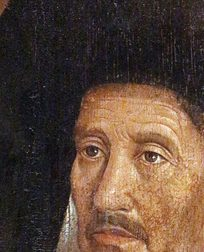
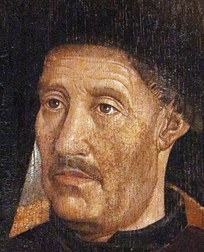
SUPER歴史ノベル 大航海時代編: 報告4件の修正（エンリケの顔、ラゴスの矢印、地図の映り、会話窓の用語） (#212)
- エンリケの肖像を原画から切り直し（頭と顔が切れていた）
- 帰りの「金・奴隷」の矢印を沖回りにして行きの矢印と重ならないように
- 行ごとの話題の地点がはみ出すと中心と縮尺を自動で直す。会話窓の裏に隠れないようにも合わせる
- 1453年の場面を引きにしてコンスタンティノープルを画面内に
- 地図上の会話窓の用語を押せるように（窓を押すと次へ）

Claude-Session: https://claude.ai/code/session_01HyMbFk6EeEKPm1zQRToVpT

diff --git a/apps/history-novel/daikokai.html b/apps/history-novel/daikokai.html
@@ -20,7 +20,7 @@ window.hnFont=function(k){if(!HN_FONTS[k])k="dot";var d=document.documentElement
  if(f.u&&!document.getElementById("ff-"+k)){var st=document.createElement("style");st.id="ff-"+k;st.textContent="@font-face{font-family:'"+f.fam+"';src:url("+f.u+") format('woff2');font-display:swap}";document.head.appendChild(st);}
  return k;};
 (function(){var k;try{k=localStorage.getItem("hn-font");}catch(e){}hnFont(k);})();</script>
-<link rel="stylesheet" href="hn.css?v=5ed1009a">
+<link rel="stylesheet" href="hn.css?v=19ee0414">
 
 <div class="app">
   <header>
@@ -269,8 +269,8 @@ const S0=[
 {sp:"eanes",t:"「王子様…\n岬の先にも、海はふつうに続いておりました」"},
 {t:"新しい船も役に立った。{カラベル船}だ。三角の帆で、向かい風でもジグザグに進める。{羅針盤}と星の観測で、陸の見えない海でも自分の位置がわかるようになっていく。"},
 {t:"ポルトガルの船は西アフリカの海岸を少しずつ南へ下り、金と、そして人を運びはじめた。1444年、ポルトガル南部の港{ラゴス}で、アフリカから連れてこられた人々が売りに出された。{奴隷貿易}のはじまりである。",
- m:{c:[-10,22],r:1300,pins:["ヴェルデ岬","エルミナ","ラゴス"],blink:"ヴェルデ岬",fl:"pt",ar:[{p:["ボジャドール岬",[-18,20],"ヴェルデ岬",[-14,8],[-6,4],"エルミナ"],s:"s",l:"南へ"},{p:["エルミナ",[-12,8],[-21,22],"ラゴス"],s:"o",l:"金・奴隷"}]}},
-{scene:{y:1453,bgm:"siege_far",era:"大航海時代",e:"東の道",m:{c:[25,38],r:700,pins:["コンスタンティノープル","ヴェネツィア"],blink:"コンスタンティノープル",fl:"k"}}},
+ m:{c:[-10,22],r:1300,pins:["ヴェルデ岬","エルミナ","ラゴス"],blink:"ヴェルデ岬",fl:"pt",ar:[{p:["ボジャドール岬",[-18,20],"ヴェルデ岬",[-14,8],[-6,4],"エルミナ"],s:"s",l:"南へ"},{p:["エルミナ",[-6,1.5],[-20,4],[-28,18],[-20,32],"ラゴス"],s:"o",l:"金・奴隷"}]}},
+{scene:{y:1453,bgm:"siege_far",era:"大航海時代",e:"東の道",m:{c:[21,40],r:1000,pins:["コンスタンティノープル","ヴェネツィア"],blink:"コンスタンティノープル",fl:"k"}}},
 {t:"1453年、東の大都市{コンスタンティノープル}が{オスマン帝国}に攻め落とされた。千年続いた東ローマ帝国（{ビザンツ帝国}）の終わりだ。"},
 {t:"地中海の東は、イスラームの大国の海になった。東方の品を、地中海を通って手に入れる道は、ますますイスラーム商人とヴェネツィアのものになる。",n:"オスマン帝国が東西の貿易を止めたわけではない。ただ、間に入る商人と国が多いほど、品物は高くなった。"},
 {t:"アフリカ回りの道を探す理由は、いっそう強くなった。",m:{c:[-5,10],r:2900,blink:"リスボン",fl:"pt"}},
@@ -424,4 +424,4 @@ const S=S0;
 const PIC={"ch_henrique": {"cap": "henrique", "cr": "Nuno Gonçalves／パブリックドメイン／Wikimedia Commons「Henry the Navigator1.jpg」"}, "ch_columbus": {"cap": "columbus", "cr": "Sebastiano del Piombo／パブリックドメイン／Wikimedia Commons「Portrait of a Man, Said to be Christopher Columbus.jpg」"}, "ch_dagama": {"cap": "dagama", "cr": "作者不詳／パブリックドメイン／Wikimedia Commons「Vasco da Gama (Livro de Lisuarte de Abreu).jpg」"}, "ch_magellan": {"cap": "magellan", "cr": "作者不詳／パブリックドメイン／Wikimedia Commons「Ferdinand Magellan.jpg」"}, "ch_isabel": {"cap": "isabel", "cr": "作者不詳／パブリックドメイン／Wikimedia Commons「IsabellaofCastile03.jpg」"}, "ch_joao2": {"cap": "joao2", "cr": "作者不詳／パブリックドメイン／Wikimedia Commons「IOANNES QVARTVS PORTVGALIAE REX (Kunsthistorisches Museum).png」"}, "ch_cortes": {"cap": "cortes", "cr": "作者不詳／パブリックドメイン／Wikimedia Commons「Retrato de Hernán Cortés.jpg」"}, "ch_moctezuma": {"cap": "moctezuma", "cr": "作者不詳／パブリックドメイン／Wikimedia Commons「Moctezuma Mendoza.jpg」"}, "ch_pizarro": {"cap": "pizarro", "cr": "Amable-Paul Coutan／パブリックドメイン／Wikimedia Commons「Portrait of Francisco Pizarro.jpg」"}, "ch_atahualpa": {"cap": "atahualpa", "cr": "作者不詳／パブリックドメイン／Wikimedia Commons「Atahuallpa, Inca XIIII From Berlin Ethnologisches Museum, Staatliche Museen, Berlin, Germany.png」"}, "ch_lascasas": {"cap": "lascasas", "cr": "作者不詳 / Unidentified painter／パブリックドメイン／Wikimedia Commons「Fray Bartolomé de las Casas.jpg」"}, "ch_xavier": {"cap": "xavier", "cr": "作者不詳／パブリックドメイン／Wikimedia Commons「Franciscus de Xabier.jpg」"}, "ch_elcano": {"cap": "elcano", "cr": "作者不詳／パブリックドメイン／Wikimedia Commons「Juan Sebastián Elcano, anonymous 19th century painting.jpg」"}, "ch_pigafetta": {"cap": "pigafetta", "cr": "作者不詳／パブリックドメイン／Wikimedia Commons「Antonio pigafetta.png」"}, "d_giraffe": {"cap": "沈度「瑞応麒麟図」", "d": "1414年、ベンガルの使節が明の永楽帝に献上したキリンを描いた絵。キリンはもとはアフリカ東岸から運ばれた。中国では伝説の聖獣「麒麟」とみなされた", "cr": "Shen Du (沈度, 1357–1434)／パブリックドメイン／Wikimedia Commons「Tribute Giraffe with Attendant.jpg」"}, "p_belem": {"cap": "ベレンの塔（リスボン）", "d": "16世紀はじめ、テージョ川の入り口を守るために建てられた塔。インドへ向かう船はこの前を通って出ていった", "cr": "Alvesgaspar／CC BY-SA 3.0／Wikimedia Commons「Torre Belém April 2009-4a.jpg」"}, "d_caravel": {"cap": "ピンタ号の複製船", "d": "コロンブスの第1回航海に加わったカラベル船。三角帆と四角い帆を組み合わせている（スペイン・パロスの復元船）", "cr": "Miguel Ángel \"fotógrafo\"／CC BY-SA 2.5／Wikimedia Commons「LaPinta.jpg」"}, "p_cape": {"cap": "喜望峰の近く（ケープ半島）", "d": "アフリカ大陸の南西の端。ディアスはこのあたりで嵐にあい、気づかないうちにアフリカの南端を回っていた", "cr": "Diego Delso／CC BY-SA 4.0／Wikimedia Commons「Playa Dias, Cape Point, Sudáfrica, 2018-07-23, DD 103.jpg」"}, "d_landing": {"cap": "ジョン・ヴァンダーリン「コロンブスの上陸」", "d": "1847年に描かれた想像の絵。アメリカ合衆国議会議事堂に飾られている", "cr": "John Vanderlyn／パブリックドメイン／Wikimedia Commons「Landing of Columbus (2) (cropped).jpg」"}, "d_calicut": {"cap": "ブラウンとホーヘンベルフ「カリカット」", "d": "1572年に出版された都市図集の一枚。港には多くの船が並んでいる", "cr": "BRAUN AND HOGENBERG／パブリックドメイン／Wikimedia Commons「Calicut 1572.jpg」"}, "d_cantino": {"cap": "カンティーノ図（1502年）", "d": "ポルトガルの最新の航海の成果を描いた世界地図。大西洋を南北に走る線がトルデシリャス条約の境界線。左側にブラジルの海岸も見える", "cr": "作者不詳 Portuguese (1502)／パブリックドメイン／Wikimedia Commons「Cantino planisphere (1502).jpg」"}, "p_strait": {"cap": "マゼラン海峡（人工衛星写真）", "d": "南アメリカ大陸の南の端。入り組んだ水路が大西洋と太平洋を結んでいる", "cr": "Jacques Descloitres, MODIS Rapid Response Team, NASA/GSFC／パブリックドメイン／Wikimedia Commons「StraitOfMagellan.jpg」"}, "d_tenochtitlan": {"cap": "テノチティトランの復元図", "d": "湖の島の上に広がる都を、研究をもとにコンピューターで描いた現代の想像図", "cr": "thomas kole／CC BY 4.0／Wikimedia Commons「Vista completa de Tenochtitlán.jpg」"}, "p_cusco": {"cap": "クスコのアルマス広場", "d": "インカの都の中心だった広場。インカの建物を壊し、その石の上にスペイン人が大聖堂を建てた", "cr": "Sucram Yef／CC BY 2.0／Wikimedia Commons「Cusco Plaza de Armas.jpg」"}, "p_cajamarca": {"cap": "身代金の部屋（カハマルカ）", "d": "アタワルパが、手の届く高さまで黄金で満たすと約束したと伝わる部屋", "cr": "Velvet／CC BY-SA 4.0／Wikimedia Commons「Cajamarca cuarto del rescate.jpg」"}, "d_potosi": {"cap": "ポトシの町とセロ・リコ", "d": "奥の赤い山が、銀を掘りつくすほど掘られた「豊かな山」", "cr": "Parallelepiped09／CC BY-SA 4.0／Wikimedia Commons「Vista de la Villa Imperial de Potosí.jpg」"}, "p_potosi": {"cap": "セロ・リコ（ボリビア・ポトシ）", "d": "標高約4800メートル。16世紀から掘られ続け、山の中は坑道だらけになっている", "cr": "Mhwater at Dutch Wikipedia／パブリックドメイン／Wikimedia Commons「Cerro ricco.jpg」"}, "p_malacca": {"cap": "ア・ファモサ（マラッカ）", "d": "1511年にマラッカを攻め取ったポルトガルが築いた要塞の門。いまはこの門だけが残る", "cr": "Chongkian／CC BY-SA 4.0／Wikimedia Commons「A Famosa Fortress.JPG」"}, "d_victoria": {"cap": "ビクトリア号の複製船", "d": "世界一周を果たしたビクトリア号を、当時の記録をもとに復元した船", "cr": "Gnsin／CC BY-SA 3.0／Wikimedia Commons「Nao Victoria.jpg」"}, "d_smallpox": {"cap": "『フィレンツェ絵文書』の天然痘", "d": "16世紀、スペイン人の修道士サアグンがアステカの人々から聞き取ってまとめた記録。天然痘に苦しむ人々が描かれている", "cr": "作者不詳／パブリックドメイン／Wikimedia Commons「FlorentineCodex BK12 F54 smallpox.jpg」"}};
 
 </script>
-<script src="hn-engine.js?v=c3912a7a"></script>
+<script src="hn-engine.js?v=ed5b30ea"></script>

diff --git a/apps/history-novel/hn-engine.js b/apps/history-novel/hn-engine.js
@@ -56,7 +56,21 @@ new ResizeObserver(resize).observe(svg);
 function setTarget(instant){
   /* r=短い辺の半分に入れる距離。rw があれば横幅の半分に rw を入れる（世界全体を見せる場面用）。
      fw=横幅の半分に最低限入れる距離（縦長のスマホで東西の端が切れないように。PCでは効かない） */
-  const c=pj(pt(mstate.c));let s=mstate.rw?W/(2*mstate.rw):Math.min(W,H)/(2*mstate.r);if(mstate.fw)s=Math.min(s,W/(2*mstate.fw));
+  let c=pj(pt(mstate.c));let s=mstate.rw?W/(2*mstate.rw):Math.min(W,H)/(2*mstate.r);if(mstate.fw)s=Math.min(s,W/(2*mstate.fw));
+  /* その行で話題の地点（新しいピン・点滅・矢印）が画面からはみ出すなら、全部入るように中心と縮尺を直す（2026-11-06 報告#11#12）。
+     余白は旗と地名ラベルのぶん。左右FX、上FT、下FB */
+  /* 会話の窓が出ているときは、窓に隠れない上の部分に、点滅中の地点（なければ話題の地点）を入れる（報告#13の場面で喜望峰が窓の裏に隠れていた） */
+  const tk=$("talk"),tb=tk&&!tk.hidden?Math.max(talkH,talkSpan())+28:0;
+  const fp=(tb&&mstate.blink?[mstate.blink]:(mstate.fit||[])).map(k=>pt(k)).filter(Boolean).map(pj);
+  if(fp.length){const FX=46,FT=46,FB=Math.max(22,tb),iw=Math.max(40,W-2*FX),ih=Math.max(40,H-FT-FB);
+    const inside=q=>{const x=(q[0]-c[0])*s+W/2,y=(q[1]-c[1])*s+H/2;return x>=FX&&x<=W-FX&&y>=FT&&y<=H-FB;};
+    if(!fp.every(inside)){const xs=fp.map(q=>q[0]),ys=fp.map(q=>q[1]);
+      const x0=Math.min(...xs),x1=Math.max(...xs),y0=Math.min(...ys),y1=Math.max(...ys);
+      s=Math.min(s,iw/Math.max(1e-6,x1-x0),ih/Math.max(1e-6,y1-y0));
+      /* 元の中心はできるだけ保ち、はみ出す分だけずらす */
+      const hw=iw/2/s,hh=ih/2/s,cy0=c[1]+(FT-FB)/2/s;
+      const cx=Math.min(Math.max(c[0],x1-hw),x0+hw),cy=Math.min(Math.max(cy0,y1-hh),y0+hh);
+      c=[cx,cy-(FT-FB)/2/s];}}
   Object.assign(from,cam);Object.assign(to,{x:c[0],y:c[1],s});t0=performance.now();
   if(instant||!camInit||matchMedia("(prefers-reduced-motion:reduce)").matches){Object.assign(cam,to);Object.assign(from,to);camInit=true;}
   kick();
@@ -166,24 +180,26 @@ function frame(now){
 function kick(){if(!rafOn){rafOn=true;requestAnimationFrame(frame);}}
 kick();
 function mergeM(ms,m){if(!m)return;if(m.clear)ms.ar=[];
+  /* fit=画面に必ず入れる地点。カメラを動かした行で入れ直し、動かさない行では足していく */
+  if(m.c||m.r)ms.fit=(!m.clear&&ms.blink)?[ms.blink]:[];/* 点滅中の地点は持ち越して入れる（clear のときは外す） */ms.fit=[...(ms.fit||[]),...(m.pins||[]),...(m.blink?[m.blink]:[]),...(m.ar||[]).flatMap(a=>a.p)];
   if(m.c)ms.c=m.c;if(m.r){ms.r=m.r;ms.rw=m.rw||null;ms.fw=m.fw||null;}if(m.pins)ms.pins=[...new Set([...ms.pins,...m.pins])];if(m.blink!==undefined){ms.blink=m.blink;ms.fl=m.fl||null;}if(m.ar)ms.ar=[...ms.ar,...m.ar];}
 function choiceM(s,j,sub,ms){const o=s.o[j];if(o.h||sub>=o.ifr.length){ms.ar=ms.ar.filter(a=>a.s!=="if");mergeM(ms,s.hm);}else{mergeM(ms,o.im);}}
 function computeMap(){
   let a=st.i;while(a>0&&!S[a].scene)a--;
   const ms=Object.assign(HOME(),{fl:null});
   for(let k=a;k<=st.i&&k<S.length;k++){const s=S[k];
-    if(s.scene){Object.assign(ms,{pins:[],ar:[],blink:null});mergeM(ms,s.scene.m);continue;}
+    if(s.scene){Object.assign(ms,{pins:[],ar:[],blink:null,fit:[]});mergeM(ms,s.scene.m);continue;}
     mergeM(ms,s.m);
     if(s.choice&&st.ans[k]!=null){choiceM(s,st.ans[k],k===st.i?st.sub:99,ms);}
   }
   return ms;
 }
 function updateMap(){
-  const ms=computeMap();const camChanged=JSON.stringify([ms.c,ms.r,ms.rw,ms.fw])!==JSON.stringify([mstate.c,mstate.r,mstate.rw,mstate.fw]);
+  const ms=computeMap();const camChanged=JSON.stringify([ms.c,ms.r,ms.rw,ms.fw,ms.fit,!$("talk").hidden])!==JSON.stringify([mstate.c,mstate.r,mstate.rw,mstate.fw,mstate.fit,mstate.tk]);ms.tk=!$("talk").hidden;
   mstate=ms;buildOverlay();if(camChanged||userCam)setTarget(false);
   userView(false);drawPics();
 }
-$("mapwrap").addEventListener("click",e=>{if(e.target.closest("#pics,#bHome"))return;if(dragMoved){dragMoved=false;return;}const pn=e.target.closest(".pin.tap");if(pn&&st.v==="play"){st.sheet="term";return openTerm(pn.dataset.place,true);}if(e.target.closest("#talk"))advance();});/* 地図そのものを押しても進めない（地点の押し間違い防止 2026-11-05） */
+$("mapwrap").addEventListener("click",e=>{if(e.target.closest("#pics,#bHome"))return;if(dragMoved){dragMoved=false;return;}const pn=e.target.closest(".pin.tap");if(pn&&st.v==="play"){st.sheet="term";return openTerm(pn.dataset.place,true);}const tm=e.target.closest("#talk .term");if(tm&&st.v==="play"){e.stopPropagation();return openTerm(tm.dataset.k,true);}if(e.target.closest("#talk"))advance();});/* 地図そのものを押しても進めない（地点の押し間違い防止 2026-11-05） */
 
 /* ---------- 地図を指で動かす（2026-11-05 経太さん）。ドラッグで移動、ピンチ／ホイールで拡大縮小。自分の画面だけ。
    次の文に進むと場面の位置に戻る。「元の位置」ボタンでもすぐ戻せる ---------- */
@@ -292,7 +308,9 @@ function lineHTML(s,cur){
 function showTalk(s){const c=C[s.sp]||{n:s.sp},el=$("talk");
   el.innerHTML=`<div class="tk-f">${faceHTML(s.sp,"face")}<div class="tk-n">${esc(c.n)}</div></div><div class="tk-b"><div class="txt">${md(s.t,true)}</div></div>`;
   el.hidden=false;el.classList.remove("on");void el.offsetWidth;el.classList.add("on");
+  talkH=talkSpan();/* 文字を打ち始める前（全文が入った状態）の高さを覚えておく。カメラ合わせに使う */
   typeIn(el.querySelector(".txt"));}
+let talkH=0;function talkSpan(){const el=$("talk");return el.hidden?0:el.offsetHeight+(parseFloat(getComputedStyle(el).bottom)||0);}
 function hideTalk(){const el=$("talk");el.hidden=true;el.innerHTML="";}
 
 function sceneCard(){const sc=sceneAt(st.i);if(!sc)return;

diff --git a/apps/history-novel/src/engine2.js b/apps/history-novel/src/engine2.js
@@ -56,7 +56,21 @@ new ResizeObserver(resize).observe(svg);
 function setTarget(instant){
   /* r=短い辺の半分に入れる距離。rw があれば横幅の半分に rw を入れる（世界全体を見せる場面用）。
      fw=横幅の半分に最低限入れる距離（縦長のスマホで東西の端が切れないように。PCでは効かない） */
-  const c=pj(pt(mstate.c));let s=mstate.rw?W/(2*mstate.rw):Math.min(W,H)/(2*mstate.r);if(mstate.fw)s=Math.min(s,W/(2*mstate.fw));
+  let c=pj(pt(mstate.c));let s=mstate.rw?W/(2*mstate.rw):Math.min(W,H)/(2*mstate.r);if(mstate.fw)s=Math.min(s,W/(2*mstate.fw));
+  /* その行で話題の地点（新しいピン・点滅・矢印）が画面からはみ出すなら、全部入るように中心と縮尺を直す（2026-11-06 報告#11#12）。
+     余白は旗と地名ラベルのぶん。左右FX、上FT、下FB */
+  /* 会話の窓が出ているときは、窓に隠れない上の部分に、点滅中の地点（なければ話題の地点）を入れる（報告#13の場面で喜望峰が窓の裏に隠れていた） */
+  const tk=$("talk"),tb=tk&&!tk.hidden?Math.max(talkH,talkSpan())+28:0;
+  const fp=(tb&&mstate.blink?[mstate.blink]:(mstate.fit||[])).map(k=>pt(k)).filter(Boolean).map(pj);
+  if(fp.length){const FX=46,FT=46,FB=Math.max(22,tb),iw=Math.max(40,W-2*FX),ih=Math.max(40,H-FT-FB);
+    const inside=q=>{const x=(q[0]-c[0])*s+W/2,y=(q[1]-c[1])*s+H/2;return x>=FX&&x<=W-FX&&y>=FT&&y<=H-FB;};
+    if(!fp.every(inside)){const xs=fp.map(q=>q[0]),ys=fp.map(q=>q[1]);
+      const x0=Math.min(...xs),x1=Math.max(...xs),y0=Math.min(...ys),y1=Math.max(...ys);
+      s=Math.min(s,iw/Math.max(1e-6,x1-x0),ih/Math.max(1e-6,y1-y0));
+      /* 元の中心はできるだけ保ち、はみ出す分だけずらす */
+      const hw=iw/2/s,hh=ih/2/s,cy0=c[1]+(FT-FB)/2/s;
+      const cx=Math.min(Math.max(c[0],x1-hw),x0+hw),cy=Math.min(Math.max(cy0,y1-hh),y0+hh);
+      c=[cx,cy-(FT-FB)/2/s];}}
   Object.assign(from,cam);Object.assign(to,{x:c[0],y:c[1],s});t0=performance.now();
   if(instant||!camInit||matchMedia("(prefers-reduced-motion:reduce)").matches){Object.assign(cam,to);Object.assign(from,to);camInit=true;}
   kick();
@@ -166,24 +180,26 @@ function frame(now){
 function kick(){if(!rafOn){rafOn=true;requestAnimationFrame(frame);}}
 kick();
 function mergeM(ms,m){if(!m)return;if(m.clear)ms.ar=[];
+  /* fit=画面に必ず入れる地点。カメラを動かした行で入れ直し、動かさない行では足していく */
+  if(m.c||m.r)ms.fit=(!m.clear&&ms.blink)?[ms.blink]:[];/* 点滅中の地点は持ち越して入れる（clear のときは外す） */ms.fit=[...(ms.fit||[]),...(m.pins||[]),...(m.blink?[m.blink]:[]),...(m.ar||[]).flatMap(a=>a.p)];
   if(m.c)ms.c=m.c;if(m.r){ms.r=m.r;ms.rw=m.rw||null;ms.fw=m.fw||null;}if(m.pins)ms.pins=[...new Set([...ms.pins,...m.pins])];if(m.blink!==undefined){ms.blink=m.blink;ms.fl=m.fl||null;}if(m.ar)ms.ar=[...ms.ar,...m.ar];}
 function choiceM(s,j,sub,ms){const o=s.o[j];if(o.h||sub>=o.ifr.length){ms.ar=ms.ar.filter(a=>a.s!=="if");mergeM(ms,s.hm);}else{mergeM(ms,o.im);}}
 function computeMap(){
   let a=st.i;while(a>0&&!S[a].scene)a--;
   const ms=Object.assign(HOME(),{fl:null});
   for(let k=a;k<=st.i&&k<S.length;k++){const s=S[k];
-    if(s.scene){Object.assign(ms,{pins:[],ar:[],blink:null});mergeM(ms,s.scene.m);continue;}
+    if(s.scene){Object.assign(ms,{pins:[],ar:[],blink:null,fit:[]});mergeM(ms,s.scene.m);continue;}
     mergeM(ms,s.m);
     if(s.choice&&st.ans[k]!=null){choiceM(s,st.ans[k],k===st.i?st.sub:99,ms);}
   }
   return ms;
 }
 function updateMap(){
-  const ms=computeMap();const camChanged=JSON.stringify([ms.c,ms.r,ms.rw,ms.fw])!==JSON.stringify([mstate.c,mstate.r,mstate.rw,mstate.fw]);
+  const ms=computeMap();const camChanged=JSON.stringify([ms.c,ms.r,ms.rw,ms.fw,ms.fit,!$("talk").hidden])!==JSON.stringify([mstate.c,mstate.r,mstate.rw,mstate.fw,mstate.fit,mstate.tk]);ms.tk=!$("talk").hidden;
   mstate=ms;buildOverlay();if(camChanged||userCam)setTarget(false);
   userView(false);drawPics();
 }
-$("mapwrap").addEventListener("click",e=>{if(e.target.closest("#pics,#bHome"))return;if(dragMoved){dragMoved=false;return;}const pn=e.target.closest(".pin.tap");if(pn&&st.v==="play"){st.sheet="term";return openTerm(pn.dataset.place,true);}if(e.target.closest("#talk"))advance();});/* 地図そのものを押しても進めない（地点の押し間違い防止 2026-11-05） */
+$("mapwrap").addEventListener("click",e=>{if(e.target.closest("#pics,#bHome"))return;if(dragMoved){dragMoved=false;return;}const pn=e.target.closest(".pin.tap");if(pn&&st.v==="play"){st.sheet="term";return openTerm(pn.dataset.place,true);}const tm=e.target.closest("#talk .term");if(tm&&st.v==="play"){e.stopPropagation();return openTerm(tm.dataset.k,true);}if(e.target.closest("#talk"))advance();});/* 地図そのものを押しても進めない（地点の押し間違い防止 2026-11-05） */
 
 /* ---------- 地図を指で動かす（2026-11-05 経太さん）。ドラッグで移動、ピンチ／ホイールで拡大縮小。自分の画面だけ。
    次の文に進むと場面の位置に戻る。「元の位置」ボタンでもすぐ戻せる ---------- */
@@ -292,7 +308,9 @@ function lineHTML(s,cur){
 function showTalk(s){const c=C[s.sp]||{n:s.sp},el=$("talk");
   el.innerHTML=`<div class="tk-f">${faceHTML(s.sp,"face")}<div class="tk-n">${esc(c.n)}</div></div><div class="tk-b"><div class="txt">${md(s.t,true)}</div></div>`;
   el.hidden=false;el.classList.remove("on");void el.offsetWidth;el.classList.add("on");
+  talkH=talkSpan();/* 文字を打ち始める前（全文が入った状態）の高さを覚えておく。カメラ合わせに使う */
   typeIn(el.querySelector(".txt"));}
+let talkH=0;function talkSpan(){const el=$("talk");return el.hidden?0:el.offsetHeight+(parseFloat(getComputedStyle(el).bottom)||0);}
 function hideTalk(){const el=$("talk");el.hidden=true;el.innerHTML="";}
 
 function sceneCard(){const sc=sceneAt(st.i);if(!sc)return;

diff --git a/apps/history-novel/index.html b/apps/history-novel/index.html
@@ -20,7 +20,7 @@ window.hnFont=function(k){if(!HN_FONTS[k])k="dot";var d=document.documentElement
  if(f.u&&!document.getElementById("ff-"+k)){var st=document.createElement("style");st.id="ff-"+k;st.textContent="@font-face{font-family:'"+f.fam+"';src:url("+f.u+") format('woff2');font-display:swap}";document.head.appendChild(st);}
  return k;};
 (function(){var k;try{k=localStorage.getItem("hn-font");}catch(e){}hnFont(k);})();</script>
-<link rel="stylesheet" href="hn.css?v=5ed1009a">
+<link rel="stylesheet" href="hn.css?v=19ee0414">
 
 <div class="app">
   <header>
@@ -310,4 +310,4 @@ const S=S0;
 const PIC={"ch_yoritomo": {"cap": "yoritomo", "cr": "Fujiwara no Takanobu／パブリックドメイン／Wikimedia Commons「Minamoto no Yoritomo.jpg」"}, "ch_kiyomori": {"cap": "kiyomori", "cr": "Fujiwara no Gōshin／パブリックドメイン／Wikimedia Commons「Taira no Kiyomori,TenshiSekkanMiei.jpg」"}, "ch_goshirakawa": {"cap": "goshirakawa", "cr": "ja:藤原為信／パブリックドメイン／Wikimedia Commons「Emperor Go-Shirakawa.jpg」"}, "ch_yoshitsune": {"cap": "yoshitsune", "cr": "作者不詳／パブリックドメイン／Wikimedia Commons「Minamoto no Yoshitsune.jpg」"}, "ch_masako": {"cap": "masako", "cr": "作者不詳／パブリックドメイン／Wikimedia Commons「Hojo Masako.jpg」"}, "ch_yasutoki": {"cap": "yasutoki", "cr": "栗原信充(Kurihara Nobumitsu)／パブリックドメイン／Wikimedia Commons「Hōjō Yasutoki.jpg」"}, "ch_gotoba": {"cap": "gotoba", "cr": "Fujiwara no Nobuzane／パブリックドメイン／Wikimedia Commons「Emperor Go-Toba.jpg」"}, "ch_hiromoto": {"cap": "hiromoto", "cr": "大庭学僊 / Ōba Gakusen, 1820 - 1899.／パブリックドメイン／Wikimedia Commons「Ōe no Hiromoto.jpg」"}, "ch_sanetomo": {"cap": "sanetomo", "cr": "Hannah／パブリックドメイン／Wikimedia Commons「Minamoto no Sanetomo.jpg」"}, "ch_mochihito": {"cap": "mochihito", "cr": "Published by 国史大図鑑編輯所(Kokushi Daizukan Henshujo)／パブリックドメイン／Wikimedia Commons「Prince Mochihito.jpg」"}, "p_hiru": {"cap": "蛭ヶ小島（静岡県伊豆の国市）", "d": "頼朝が流されていた地と伝わる", "cr": "立花左近／CC BY-SA 3.0／Wikimedia Commons「Hirugakojima.jpg」"}, "p_tsuru": {"cap": "鶴岡八幡宮（鎌倉）", "d": "頼朝が鎌倉の中心に据えた神社。1219年、実朝はここで暗殺された", "cr": "Syced／CC0／Wikimedia Commons「Tsurugaoka Hachimangu.jpg」"}, "p_yui": {"cap": "由比ヶ浜（鎌倉）", "d": "三方を山、一方を海に囲まれた鎌倉は、守りやすい土地だった", "cr": "Syced／CC0／Wikimedia Commons「Kamakura Yuigahama beach during winter with strong wind.jpg」"}, "p_fuji": {"cap": "富士川と富士山", "d": "1180年、平氏の大軍と頼朝方が向き合った川", "cr": "tomohisa suna／CC BY 2.0／Wikimedia Commons「Mount Fuji and Fujikawa Bridge from Fujikawa Service Area - Mar 27, 2016.jpg」"}, "p_hiyo": {"cap": "鵯越の逆落とし（歌川広重）", "d": "一ノ谷の戦いで、義経が崖を駆け下りたという伝説の場面。江戸時代の浮世絵", "cr": "Utagawa Hiroshige／パブリックドメイン／Wikimedia Commons「Flight of Yoshitsune at Hiyodorigoe pass-IMG 9286.JPG」"}, "p_yashima": {"cap": "屋島（香川県高松市）", "d": "平氏が拠点を置いた台地。当時は海に浮かぶ島だった", "cr": "No machine-readable author provided. Fg2 assumed (based on copyright claims).／パブリックドメイン／Wikimedia Commons「Takamatsu Yashima M3671.jpg」"}, "p_yashima2": {"cap": "屋島から見た高松の町", "d": "", "cr": "Photos of Japan／CC0／Wikimedia Commons「Takamatsu pano from Yashima 331.jpg」"}, "p_dan": {"cap": "安徳天皇縁起絵図「壇ノ浦合戦」", "d": "壇ノ浦で平氏が滅ぶ場面。幼い安徳天皇もこの海に沈んだ（赤間神宮）", "cr": "Tosa Mitsunobu／パブリックドメイン／Wikimedia Commons「AntokuTennou Engi.7&8 Dannoura Kassen.jpg」"}, "p_dan2": {"cap": "壇ノ浦古戦場址と関門橋", "d": "本州と九州の間、潮の流れが速い海峡", "cr": "Cheng-en Cheng／CC BY-SA 2.0／Wikimedia Commons「2014-09-01 stele of the site of Battle of Dan-no-ura in Mimosusogawa Park with Kanmon Bridge in background.jpg」"}, "p_oki": {"cap": "隠岐神社（島根県隠岐郡）", "d": "承久の乱のあと流された後鳥羽上皇は、この島で生涯を終えた", "cr": "Bakkai at Japanese Wikipedia／CC BY-SA 3.0／Wikimedia Commons「Oki shrine.jpg」"}, "d_shikimoku": {"cap": "御成敗式目", "d": "17世紀の写本（東洋文庫）", "cr": "Underbar dk／CC BY-SA 4.0／Wikimedia Commons「Goseibai Shikimoku Toyo Bunko.jpg」"}, "d_heiji": {"cap": "平治物語絵巻「三条殿夜討巻」", "d": "平治の乱で、御所が夜討ちにあう場面。13世紀（ボストン美術館）", "cr": "作者不詳／パブリックドメイン／Wikimedia Commons「Heiji Monogatari Emaki - Sanjo scroll part 5 - v2.jpg」"}, "d_nokyo": {"cap": "平家納経", "d": "1164年、清盛が一門の繁栄を願って厳島神社に納めたお経。豪華な装飾が平氏の富を物語る", "cr": "平清盛／パブリックドメイン／Wikimedia Commons「Heikenoukyou.jpg」"}, "d_sosen": {"cap": "北宋銭", "d": "日宋貿易で大量に持ちこまれ、日本でもお金として使われた", "cr": "As6022014／CC BY 3.0／Wikimedia Commons「Hokuso-sen.jpg」"}};
 
 </script>
-<script src="hn-engine.js?v=c3912a7a"></script>
+<script src="hn-engine.js?v=ed5b30ea"></script>

diff --git a/apps/history-novel/src/w1/S.js b/apps/history-novel/src/w1/S.js
@@ -75,8 +75,8 @@ const S0=[
 {sp:"eanes",t:"「王子様…\n岬の先にも、海はふつうに続いておりました」"},
 {t:"新しい船も役に立った。{カラベル船}だ。三角の帆で、向かい風でもジグザグに進める。{羅針盤}と星の観測で、陸の見えない海でも自分の位置がわかるようになっていく。"},
 {t:"ポルトガルの船は西アフリカの海岸を少しずつ南へ下り、金と、そして人を運びはじめた。1444年、ポルトガル南部の港{ラゴス}で、アフリカから連れてこられた人々が売りに出された。{奴隷貿易}のはじまりである。",
- m:{c:[-10,22],r:1300,pins:["ヴェルデ岬","エルミナ","ラゴス"],blink:"ヴェルデ岬",fl:"pt",ar:[{p:["ボジャドール岬",[-18,20],"ヴェルデ岬",[-14,8],[-6,4],"エルミナ"],s:"s",l:"南へ"},{p:["エルミナ",[-12,8],[-21,22],"ラゴス"],s:"o",l:"金・奴隷"}]}},
-{scene:{y:1453,bgm:"siege_far",era:"大航海時代",e:"東の道",m:{c:[25,38],r:700,pins:["コンスタンティノープル","ヴェネツィア"],blink:"コンスタンティノープル",fl:"k"}}},
+ m:{c:[-10,22],r:1300,pins:["ヴェルデ岬","エルミナ","ラゴス"],blink:"ヴェルデ岬",fl:"pt",ar:[{p:["ボジャドール岬",[-18,20],"ヴェルデ岬",[-14,8],[-6,4],"エルミナ"],s:"s",l:"南へ"},{p:["エルミナ",[-6,1.5],[-20,4],[-28,18],[-20,32],"ラゴス"],s:"o",l:"金・奴隷"}]}},
+{scene:{y:1453,bgm:"siege_far",era:"大航海時代",e:"東の道",m:{c:[21,40],r:1000,pins:["コンスタンティノープル","ヴェネツィア"],blink:"コンスタンティノープル",fl:"k"}}},
 {t:"1453年、東の大都市{コンスタンティノープル}が{オスマン帝国}に攻め落とされた。千年続いた東ローマ帝国（{ビザンツ帝国}）の終わりだ。"},
 {t:"地中海の東は、イスラームの大国の海になった。東方の品を、地中海を通って手に入れる道は、ますますイスラーム商人とヴェネツィアのものになる。",n:"オスマン帝国が東西の貿易を止めたわけではない。ただ、間に入る商人と国が多いほど、品物は高くなった。"},
 {t:"アフリカ回りの道を探す理由は、いっそう強くなった。",m:{c:[-5,10],r:2900,blink:"リスボン",fl:"pt"}},

diff --git a/apps/history-novel/hn.css b/apps/history-novel/hn.css
@@ -81,6 +81,7 @@ header{flex-wrap:wrap;row-gap:6px}.when{min-width:13em}.menu{margin-left:auto}/*
 .tk-f .face{border:2px solid var(--ink);border-radius:4px;background:var(--bg)}
 .tk-f .face.sil{border:2px solid var(--ink);background:var(--bg)}
 .tk-n{background:var(--bg);border:1px solid var(--ink);border-radius:3px;font-size:12.5px;font-weight:700;text-align:center;padding:1px 4px;letter-spacing:.08em;white-space:nowrap}
+.talk .tk-b,.talk .tk-f{pointer-events:auto;cursor:pointer}
 .tk-b{background:var(--bg);border:2px solid var(--ink);border-radius:6px;padding:10px 14px;min-height:76px}
 .tk-b .txt{white-space:pre-line;font-size:16.5px;line-height:1.85;font-weight:600}
 .said .spn{font-weight:700;margin-right:.3em;border:0;padding:0;font-size:inherit;letter-spacing:0}

diff --git a/apps/history-novel/src/hn.css b/apps/history-novel/src/hn.css
@@ -81,6 +81,7 @@ header{flex-wrap:wrap;row-gap:6px}.when{min-width:13em}.menu{margin-left:auto}/*
 .tk-f .face{border:2px solid var(--ink);border-radius:4px;background:var(--bg)}
 .tk-f .face.sil{border:2px solid var(--ink);background:var(--bg)}
 .tk-n{background:var(--bg);border:1px solid var(--ink);border-radius:3px;font-size:12.5px;font-weight:700;text-align:center;padding:1px 4px;letter-spacing:.08em;white-space:nowrap}
+.talk .tk-b,.talk .tk-f{pointer-events:auto;cursor:pointer}
 .tk-b{background:var(--bg);border:2px solid var(--ink);border-radius:6px;padding:10px 14px;min-height:76px}
 .tk-b .txt{white-space:pre-line;font-size:16.5px;line-height:1.85;font-weight:600}
 .said .spn{font-weight:700;margin-right:.3em;border:0;padding:0;font-size:inherit;letter-spacing:0}

diff --git a/apps/history-novel/CHAPTER_GUIDE.md b/apps/history-novel/CHAPTER_GUIDE.md
@@ -39,6 +39,8 @@
 - 各行の `m` でカメラ（`c` 中心、`r` 半径＝短い辺の半分に入る距離。1度≒100）、点滅 `blink`、旗 `fl`、矢印 `ar` を指定。矢印の `s` は "s"（本筋・赤）"o"（その他・灰）"if"（IF・紫の点線）。
 - 世界全体を見せる場面は `rw`（横幅の半分）を使う。PCは地図が横長、スマホは縦長なので、`r` だけだとPCで引きすぎる。
 - スマホの地図は横幅が狭いので、東西に広い場面は `fw`（横幅の半分に最低限入れる距離）を付ける。PCでは効かず、スマホだけ引きになる。目安は東西の端の経度差の半分×94＋余白400（例: 鄭和の航海 `fw:4500`）。
+- 画面に入れる地点は自動で合わせる（2026-11-06）: その行で足したピン・点滅地点・矢印の点がはみ出すと、エンジンが中心と縮尺を直す。会話の窓が出ている行は、窓に隠れない上の部分に点滅地点を入れる。`c`/`r` は「見せたい構図」の目安として書けばよい。仕上げに全行を 390px と 1280px で点検する（はみ出しゼロを確認）。
+- 帰り道など同じ海岸をなぞる矢印は、沖に膨らませて行きの矢印と重ねない。
 - 太平洋をまたぐ航路は、アジア側を経度-360の写しで描く（マクタン島 -236 など）。地図とアジア側の地形には写しが入っている。
 - 旗の色: 源氏=白 `w`、平氏・明=赤 `r`、ポルトガル=緑 `pt`、スペイン=黄 `es`、それ以外=紫 `k`。装飾目的の色は足さない。
 - 地形は標高から作った陰影（明るい画面用と暗い画面用）。寄る場所だけ高精細の画像を足す（cfg.js の `terr`、`z` はこの半径より寄ったら出す）。作り方は `src/w1/gen_terrain.py`。
